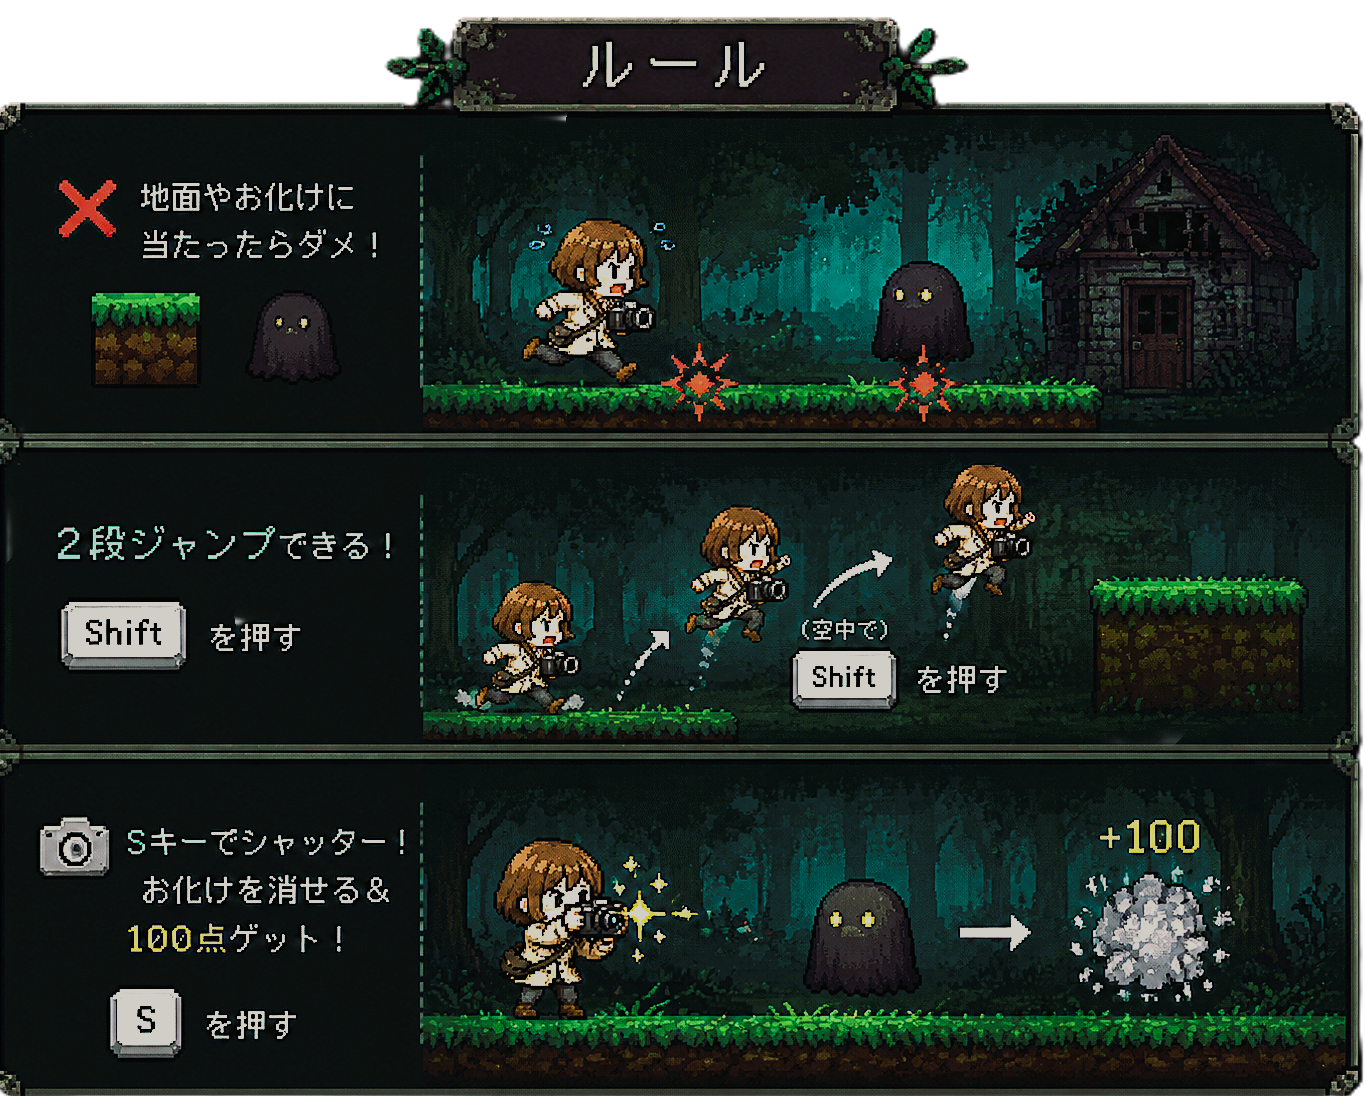
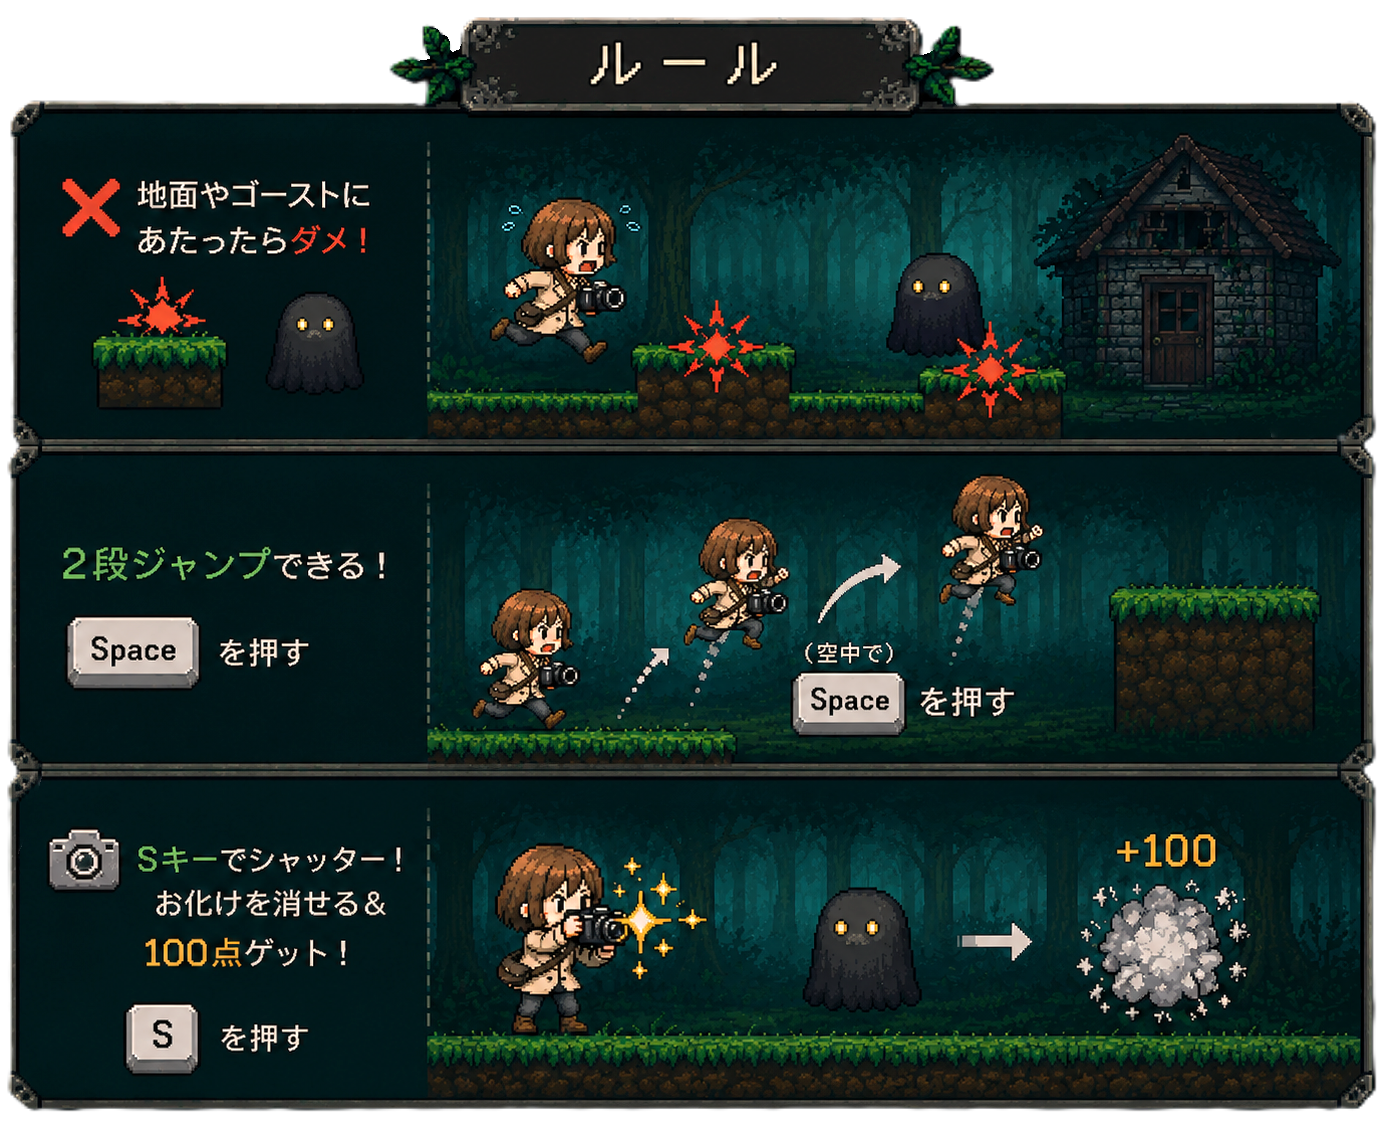
画像変更・削除

diff --git a/ひな形/project/Source/Enemy.cpp b/ひな形/project/Source/Enemy.cpp
@@ -15,6 +15,7 @@ Enemy::Enemy(int sx, int sy)
 
 	LoadDivGraph("data/image/obake.png", 6, 6,1, 178, 150, m_image);
 	scored = false;
+	hardMode = false;
 	speed = 10;
 	
 }
@@ -42,15 +43,10 @@ void Enemy::Update()
 			respawnTimer = 0;
 		}
 		return;
+		
+		
 	}
 	x -= speed;
-	if (CheckHitKey(KEY_INPUT_S))
-	{
-		/*if (x <= 450 && x >= 150)
-		{
-			isAlive = false;
-		}*/
-	}
 	m_animTimer++;
 	if (m_animTimer >= 20)
 	{
